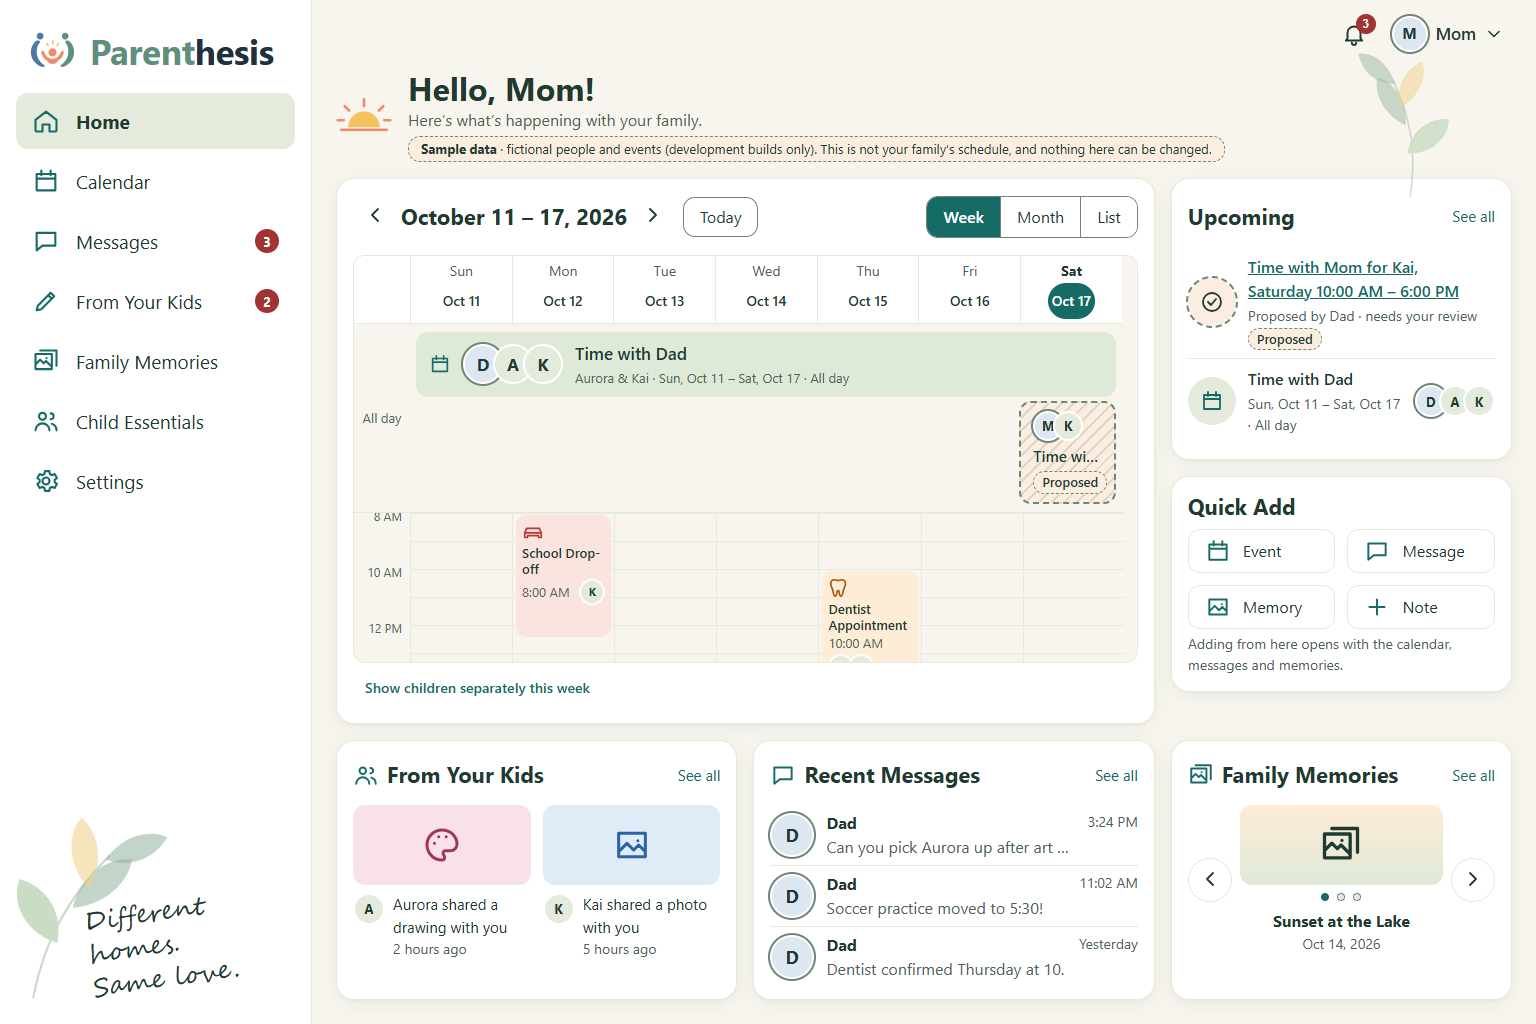
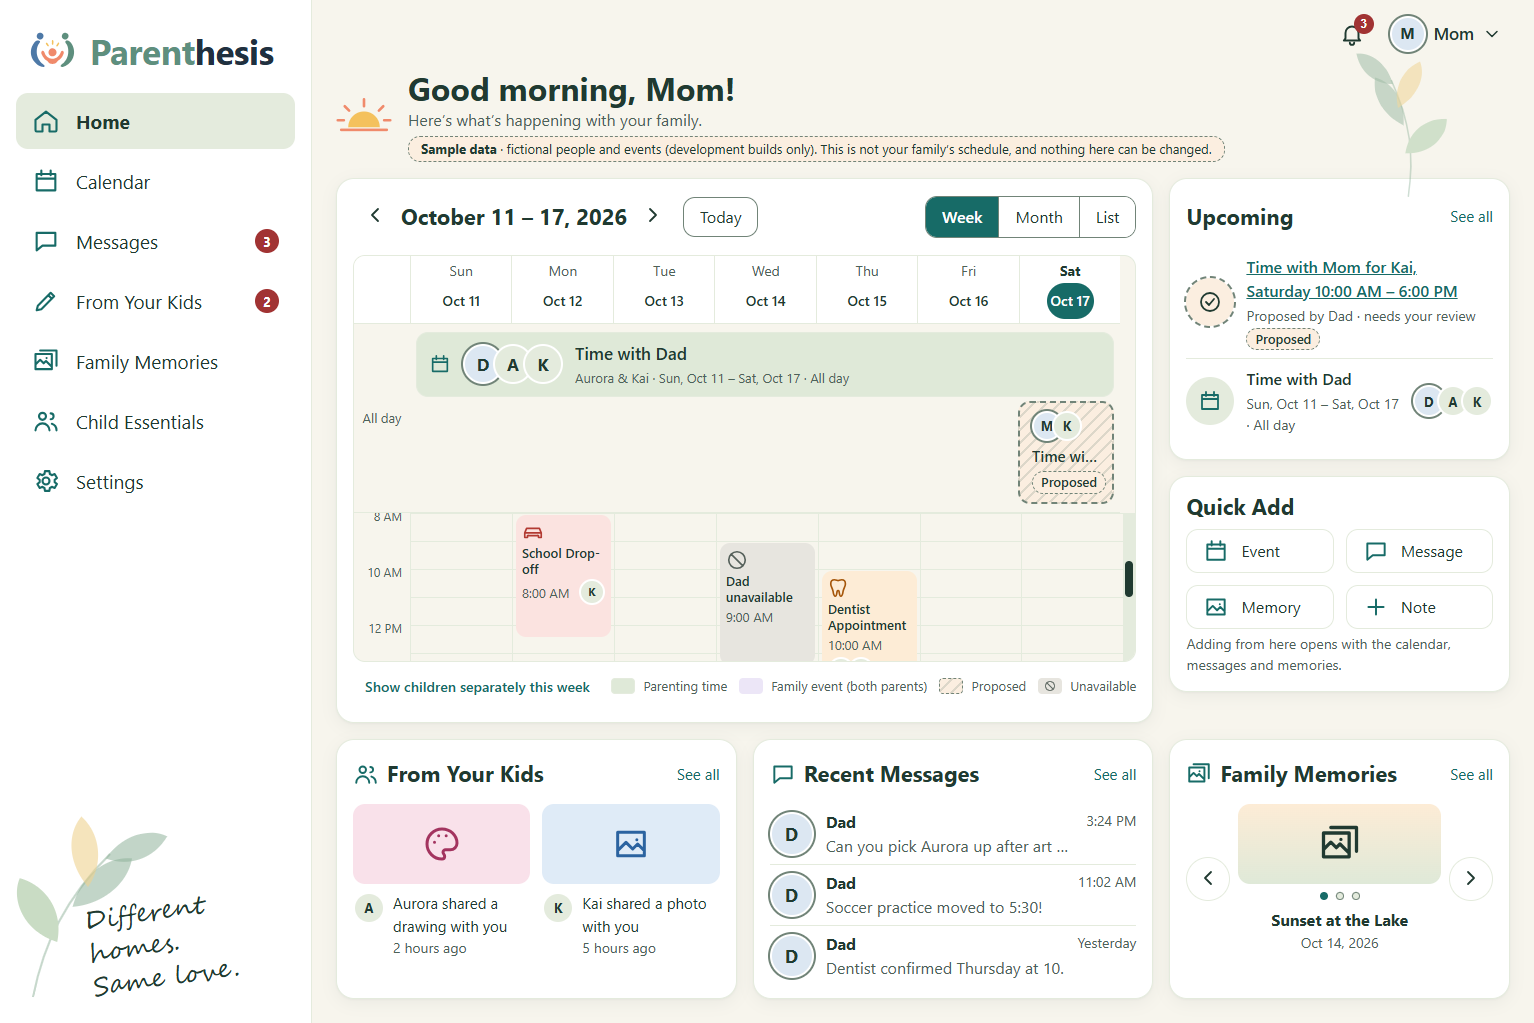
feat(dashboard): calendar key, family-event and unavailable styles
User decisions, October 17, 2026:
- Calendar key at the bottom right of the calendar: Parenting time (sage),
  Family event (both parents; new lavender category), Proposed (hatched,
  dashed, shared mixin with the calendar) and Unavailable (neutral grey with a
  no-entry icon). Each is named in text.
- Family events show both parents' avatars, then the children's, and name the
  parents in text. Mock samples: "School Play" (both parents) and
  "Dad unavailable"; the categories are UI-only until the calendar API exists.
- Scroll bar thumb has a minimum height so it's easy to see.
- New colour tokens for both themes, covered by the contrast tests.

Screenshots from a real (non-headless) Edge window, where the scroll bar is
drawn: docs/design/audit/2026-10-16/calendar-scrollbar-closeup.png.

diff --git a/src/frontend/src/app/features/dashboard/week-calendar.html b/src/frontend/src/app/features/dashboard/week-calendar.html
@@ -82,7 +82,11 @@
                     </span>
                     <span class="pt__meta">{{ childNames(block.children) }} · {{ range(block) }}</span>
                     @if (block.status === 'proposed') {
-                      <span class="pt__note">Needs approval · not on the schedule yet</span>
+                      <!-- Short proposals keep the hatching, outline and Proposed label; this note moves to the tooltip and
+                           screen readers so the block stays compact. -->
+                      <span class="pt__note" [class.visually-hidden]="place.endColumn - place.startColumn <= 2">
+                        Needs approval · not on the schedule yet
+                      </span>
                     }
                     @if (block.status === 'confirmed' && !block.changePending) {
                       <span class="visually-hidden">, confirmed</span>
@@ -136,8 +140,11 @@
                         <span class="act__time">{{ timeLabel(event.time!) }}</span>
                       </span>
                     </span>
-                    <span class="visually-hidden">, {{ childNames(event.children) }}</span>
+                    <span class="visually-hidden">, {{ childNames(event.children) }}{{ event.parents?.length ? ', with ' + parentNames(event) : '' }}</span>
                     <span class="act__avatars" aria-hidden="true">
+                      @for (parent of event.parents ?? []; track parent.membershipId) {
+                        <app-avatar [name]="parent.displayName" kind="parent" [size]="26" />
+                      }
                       @for (child of event.children; track child.id) {
                         <app-avatar [name]="child.name" [size]="26" />
                       }
@@ -227,9 +234,12 @@
                       @if (event.time) {
                         {{ timeLabel(event.time) }} ·
                       }
-                      {{ childNames(event.children) }}
+                      {{ childNames(event.children) }}{{ event.parents?.length ? ' · with ' + parentNames(event) : '' }}
                     </span>
                     <span class="act__avatars" aria-hidden="true">
+                      @for (parent of event.parents ?? []; track parent.membershipId) {
+                        <app-avatar [name]="parent.displayName" kind="parent" [size]="28" />
+                      }
                       @for (child of event.children; track child.id) {
                         <app-avatar [name]="child.name" [size]="28" />
                       }
@@ -255,6 +265,7 @@
           {{ split() ? 'Group children with the same schedule' : 'Show children separately this week' }}
         </button>
       }
+      <app-calendar-key />
     </footer>
   } @else if (state() === 'unavailable') {
     <p class="note">

diff --git a/src/frontend/src/app/features/dashboard/week-calendar.scss b/src/frontend/src/app/features/dashboard/week-calendar.scss
@@ -1,5 +1,7 @@
 // The approved weekly calendar. Wide containers show the week grid; narrow ones (phones) fall back to the
 // agenda, which is also the List view.
+@use 'proposed-fill' as *;
+
 :host {
   display: block;
   container-type: inline-size;
@@ -181,6 +183,7 @@ ul {
   }
 
   &::-webkit-scrollbar-thumb {
+    min-height: 40px;
     border: 2px solid var(--color-surface-soft);
     border-radius: var(--radius-pill);
     background: var(--color-text);
@@ -273,14 +276,7 @@ ul {
 
 // Proposed: diagonal hatching, a dashed outline and written labels, never colour alone. Not part of the schedule.
 .pt[data-status='proposed'] {
-  border: 2px dashed var(--color-outline);
-  background:
-    repeating-linear-gradient(
-      -45deg,
-      transparent 0 7px,
-      color-mix(in srgb, var(--color-outline) 22%, transparent) 7px 9px
-    ),
-    var(--color-status-pending-bg);
+  @include proposed-fill;
 }
 
 .pt__note {
@@ -412,7 +408,6 @@ ul {
   align-content: start;
   gap: 2px var(--space-1);
   padding: 6px;
-  line-height: 1.25;
 
   .act__head,
   .act__text {
@@ -484,7 +479,8 @@ ul {
   }
 }
 
-@each $category in school, medical, music, sport, art, other {
+// "other" is the base .act style.
+@each $category in school, medical, music, sport, art, family, unavailable {
   .act[data-category='#{$category}'] {
     background: var(--color-cat-#{$category}-bg);
 
@@ -614,17 +610,6 @@ ul {
   .pt__icon,
   .pt__meta {
     display: none;
-  }
-
-  // Short proposals keep the hatching, dashed outline and "Proposed" label; the longer note moves to the tooltip
-  // (and stays available to screen readers) so the block stays compact.
-  .pt__note {
-    position: absolute;
-    width: 1px;
-    height: 1px;
-    overflow: hidden;
-    clip-path: inset(50%);
-    white-space: nowrap;
   }
 
   .pt__text {

diff --git a/src/frontend/src/app/features/dashboard/dashboard-data.ts b/src/frontend/src/app/features/dashboard/dashboard-data.ts
@@ -55,6 +55,10 @@ export class SampleDashboardDataSource extends DashboardDataSource {
         { id: 'e-piano', title: 'Piano Lesson', date: date(2), time: '16:00', category: 'music', children: [aurora], status: 'confirmed' },
         { id: 'e-soccer', title: 'Soccer Practice', date: date(3), time: '17:30', durationMinutes: 90, category: 'sport', children: [kai], status: 'confirmed' },
         { id: 'e-dentist', title: 'Dentist Appointment', date: date(4), time: '10:00', category: 'medical', children: [kai, aurora], status: 'confirmed' },
+        // Mock family event (both parents attend) for the calendar key's Family event style.
+        { id: 'e-play', title: 'School Play', date: date(4), time: '18:00', durationMinutes: 90, category: 'family', children: [kai, aurora], parents: [dad, mom], status: 'confirmed' },
+        // Mock "unavailable" block so the calendar key's Unavailable style appears on the sample week.
+        { id: 'e-unavailable', title: 'Dad unavailable', date: date(3), time: '09:00', durationMinutes: 180, category: 'unavailable', children: [], status: 'confirmed' },
         { id: 'e-art', title: 'Art Class', date: date(5), time: '16:00', category: 'art', children: [aurora], status: 'confirmed' },
       ],
       pendingReviews: [{ id: 'r1', summary: 'Time with Mom for Kai, Saturday 10:00 AM – 6:00 PM', proposedBy: 'Dad' }],

diff --git a/src/frontend/src/app/features/dashboard/dashboard-page.spec.ts b/src/frontend/src/app/features/dashboard/dashboard-page.spec.ts
@@ -176,6 +176,24 @@ describe('DashboardPage (approved design)', () => {
       expect(text(columns[3])).toContain('Soccer Practice'); // Wednesday
     });
 
+    it('has a calendar key naming each style in text, matching what the sample week shows', async () => {
+      const { el } = await render({ sample: true });
+
+      expect([...el.querySelectorAll('.legend li')].map(text)).toEqual([
+        'Parenting time',
+        'Family event (both parents)',
+        'Proposed',
+        'Unavailable',
+      ]);
+      const play = el.querySelector('.act[data-category="family"]')!;
+      expect(text(play)).toContain('School Play');
+      expect(text(play)).toContain('with Dad and Mom');
+      expect([...play.querySelectorAll('app-avatar')].map((a) => a.getAttribute('title'))).toEqual(['Dad', 'Mom', 'Kai', 'Aurora']);
+      expect(el.querySelector('.legend')!.getAttribute('aria-label')).toBe('Calendar key');
+      const unavailable = el.querySelector('.act[data-category="unavailable"]')!;
+      expect(text(unavailable)).toContain('Dad unavailable');
+    });
+
     it('keeps the whole day in a labelled, keyboard-focusable scrolling area below the all-day row', async () => {
       const { el } = await render({ sample: true });
       const scroller = el.querySelector('.grid__body')!;

diff --git a/src/frontend/src/app/features/dashboard/week-calendar.ts b/src/frontend/src/app/features/dashboard/week-calendar.ts
@@ -13,6 +13,7 @@ import { MatButtonModule } from '@angular/material/button';
 import { RouterLink } from '@angular/router';
 import { Avatar } from '../../shared/avatar/avatar';
 import { Icon } from '../../shared/icon/icon';
+import { CalendarKey } from './calendar-key';
 import { ScheduleBlock, WeekPlacement, blockRange, childNames, groupParentingTime, placeInWeek } from './grouping';
 import { DashboardWeek, FamilyEvent, PlainDate } from './model';
 import { StatusLabel } from './status-label';
@@ -50,7 +51,7 @@ interface DayView {
 @Component({
   selector: 'app-week-calendar',
   changeDetection: ChangeDetectionStrategy.OnPush,
-  imports: [MatButtonModule, RouterLink, Avatar, Icon, StatusLabel],
+  imports: [MatButtonModule, RouterLink, Avatar, Icon, StatusLabel, CalendarKey],
   templateUrl: './week-calendar.html',
   styleUrl: './week-calendar.scss',
 })
@@ -140,6 +141,7 @@ export class WeekCalendar {
   );
 
   protected readonly childNames = childNames;
+  protected readonly parentNames = (event: FamilyEvent) => (event.parents ?? []).map((p) => p.displayName).join(' and ');
   protected readonly timeLabel = timeLabel;
   protected readonly icons = CATEGORY_ICONS;
 

diff --git a/src/frontend/src/app/features/dashboard/calendar-key.ts b/src/frontend/src/app/features/dashboard/calendar-key.ts
@@ -1,0 +1,22 @@
+import { ChangeDetectionStrategy, Component } from '@angular/core';
+import { Icon } from '../../shared/icon/icon';
+
+/** The calendar key (bottom right of the week calendar): each style the calendar uses, named in text. */
+@Component({
+  selector: 'app-calendar-key',
+  changeDetection: ChangeDetectionStrategy.OnPush,
+  imports: [Icon],
+  template: `
+    <ul class="legend" aria-label="Calendar key">
+      <li><span class="legend__swatch legend__swatch--parenting" aria-hidden="true"></span>Parenting time</li>
+      <li><span class="legend__swatch legend__swatch--family" aria-hidden="true"></span>Family event (both parents)</li>
+      <li><span class="legend__swatch legend__swatch--proposed" aria-hidden="true"></span>Proposed</li>
+      <li>
+        <span class="legend__swatch legend__swatch--unavailable" aria-hidden="true"><app-icon name="block" [size]="12" /></span>
+        Unavailable
+      </li>
+    </ul>
+  `,
+  styleUrl: './calendar-key.scss',
+})
+export class CalendarKey {}

diff --git a/src/frontend/src/app/features/dashboard/model.ts b/src/frontend/src/app/features/dashboard/model.ts
@@ -40,7 +40,11 @@ export interface ParentingTime {
 }
 
 /** Activity categories for icons and colour accents (always alongside text). */
-export type EventCategory = 'school' | 'medical' | 'music' | 'sport' | 'art' | 'other';
+/**
+ * `family`: an event both parents attend (e.g. a school play), with its own colour. `unavailable`: a parent's
+ * blocked-out time. Both are mock styling for now (see the calendar key); the categories aren't in the API yet.
+ */
+export type EventCategory = 'school' | 'medical' | 'music' | 'sport' | 'art' | 'family' | 'unavailable' | 'other';
 
 export interface FamilyEvent {
   readonly id: string;
@@ -52,6 +56,8 @@ export interface FamilyEvent {
   readonly durationMinutes?: number;
   readonly category: EventCategory;
   readonly children: readonly ChildRef[];
+  /** Parents attending, shown before the children (both parents for a family event). */
+  readonly parents?: readonly Caregiver[];
   readonly status: ScheduleStatus;
 }
 

diff --git a/src/frontend/src/app/features/dashboard/calendar-key.scss b/src/frontend/src/app/features/dashboard/calendar-key.scss
@@ -1,0 +1,53 @@
+@use 'proposed-fill' as *;
+
+ul {
+  list-style: none;
+  margin: 0;
+  padding: 0;
+}
+
+:host {
+  margin-inline-start: auto;
+}
+
+.legend {
+  display: flex;
+  flex-wrap: wrap;
+  gap: var(--space-1) var(--space-3);
+  color: var(--color-text-secondary);
+  font-size: 0.8125rem;
+
+  li {
+    display: inline-flex;
+    align-items: center;
+    gap: var(--space-2);
+  }
+}
+
+.legend__swatch {
+  display: inline-grid;
+  place-items: center;
+  width: 1.5rem;
+  height: 1rem;
+  border-radius: 4px;
+}
+
+.legend__swatch--parenting {
+  border: 1px solid var(--color-surface-soft);
+  background: var(--color-parenting-bg);
+}
+
+.legend__swatch--family {
+  background: var(--color-cat-family-bg);
+}
+
+.legend__swatch--proposed {
+  @include proposed-fill;
+
+  border-width: 1.5px;
+}
+
+.legend__swatch--unavailable {
+  background: var(--color-cat-unavailable-bg);
+  color: var(--color-cat-unavailable-icon);
+}

diff --git a/src/frontend/src/styles/_tokens.scss b/src/frontend/src/styles/_tokens.scss
@@ -43,6 +43,10 @@
   --color-cat-art-icon: #a3345f;
   --color-cat-other-bg: #e4ebdd;
   --color-cat-other-icon: #176b67;
+  --color-cat-family-bg: #ece6f7;
+  --color-cat-family-icon: #6a4fa3;
+  --color-cat-unavailable-bg: #e7e5df;
+  --color-cat-unavailable-icon: #55605a;
   --color-parenting-bg: #dfe9d8;
   // Minimal elevation for cards, as in the approved dashboard.
   --shadow-card: 0 1px 2px rgb(32 58 49 / 4%), 0 4px 16px rgb(32 58 49 / 6%);
@@ -89,6 +93,10 @@
   --color-cat-art-icon: #f4a6c6;
   --color-cat-other-bg: #24483a;
   --color-cat-other-icon: #91d2c5;
+  --color-cat-family-bg: #352c4a;
+  --color-cat-family-icon: #c9b8f0;
+  --color-cat-unavailable-bg: #2d3633;
+  --color-cat-unavailable-icon: #bcc6c0;
   --color-parenting-bg: #24483a;
   --shadow-card: none;
 }

diff --git a/src/frontend/src/app/features/dashboard/dashboard-page.ts b/src/frontend/src/app/features/dashboard/dashboard-page.ts
@@ -131,7 +131,10 @@ export class DashboardPage {
         category: e.category,
         title: e.title,
         when: e.time ? dateTimeLabel(`${e.date}T${e.time}`).replace(/, (\d)/, ' · $1') : dayLong(e.date),
-        people: e.children.map((c) => ({ name: c.name, kind: 'child' as const })),
+        people: [
+          ...(e.parents ?? []).map((p) => ({ name: p.displayName, kind: 'parent' as const })),
+          ...e.children.map((c) => ({ name: c.name, kind: 'child' as const })),
+        ],
         status: e.status,
       }));
     return [...reviews, ...parenting, ...events].slice(0, 5);

diff --git a/src/frontend/src/app/shared/icon/icon.ts b/src/frontend/src/app/shared/icon/icon.ts
@@ -19,6 +19,7 @@ const PATHS = {
   music: 'M9 18V5l11-2v13 M9 18a3 3 0 1 1-6 0a3 3 0 0 1 6 0z M20 16a3 3 0 1 1-6 0a3 3 0 0 1 6 0z',
   soccer: 'M12 3a9 9 0 1 0 0 18a9 9 0 0 0 0-18z M12 8l3 2.2-1.1 3.6h-3.8L9 10.2z M12 8V4.5 M15 10.2l3.4-1.1 M13.9 13.8l2 3 M10.1 13.8l-2 3 M9 10.2 5.6 9.1',
   plus: 'M12 5v14 M5 12h14',
+  block: 'M12 3a9 9 0 1 0 0 18a9 9 0 0 0 0-18z M5.6 5.6l12.8 12.8',
   bell: 'M6 16V11a6 6 0 0 1 12 0v5l1.5 2h-15z M10 20a2 2 0 0 0 4 0',
   note: 'M5 3h10l4 4v14H5z M15 3v4h4 M8 12h8 M8 16h6',
   'chevron-left': 'M15 6l-6 6 6 6',

diff --git a/src/frontend/src/app/core/theme/tokens.spec.ts b/src/frontend/src/app/core/theme/tokens.spec.ts
@@ -51,7 +51,7 @@ const pairs: [foreground: string, background: string, minimum: number][] = [
   ['brand-wordmark-parent', 'color-surface', NON_TEXT],
   ['brand-wordmark-hesis', 'color-surface', TEXT],
   // Activity categories: text sits on the fill, icons need 3:1 against it.
-  ...['school', 'medical', 'music', 'sport', 'art', 'other'].flatMap(
+  ...['school', 'medical', 'music', 'sport', 'art', 'family', 'unavailable', 'other'].flatMap(
     (c) =>
       [
         ['color-text', `color-cat-${c}-bg`, TEXT],
